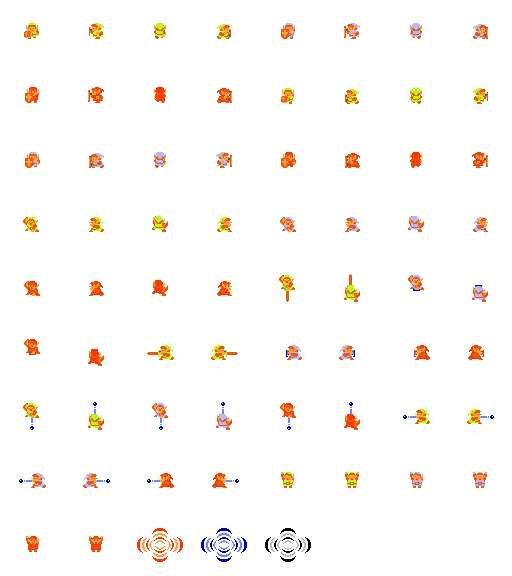
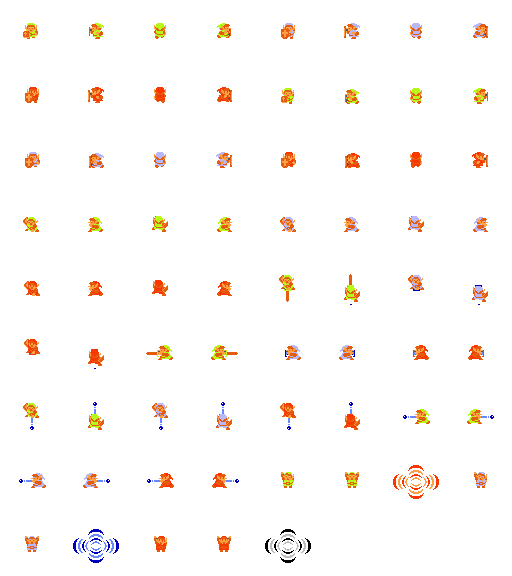
Much, much better ordering of frames

diff --git a/main.c b/main.c
@@ -39,6 +39,8 @@ typedef struct
     int dw;
 } Args;
 
+static int CompareFramesRowThresh;
+
 static void PrintUsage(const char* app)
 {
     fprintf(stderr, "Usage: %s path/to/input/image path/to/output/image OPTIONS\n", app);
@@ -48,6 +50,7 @@ static void PrintUsage(const char* app)
     fprintf(stderr, "\t-e EDGE_DISTANCE_THRESHOLD\n\t\tThe edge distance threshold is used to determine whether disconnected pixels still belong to a frame.\n\t\tIf the distance from these pixels to the nearest edge is less than or equal to the\n\t\tthreshold, then they're incorporated.\n");
     fprintf(stderr, "\t--pot\n\t\tThis is optional. It makes the app generate a power of two image.\n");
     fprintf(stderr, "\t--dest-width DESIRED_OUTPUT_IMAGE_WIDTH\n\t\tThis is optional and mutually exclusive with the --pot option.\n\t\tThis is the width you want the output image to be.\n\t\tThe height will be determined from the number of frames detected.\n");
+	fprintf(stderr, "\t--row-thresh DESIRED_ROW_THRESHOLD\n\t\tThis is equal to half the frame height by default.\n\t\tIt is used to order the resulting frames. If two frames are within the threshold on the y axis\n\t\tthen they are ordered from left-to-right next to each other in the final image.\n");
 }
 
 static bool ParseArgs(Args* args, int argc, char** argv)
@@ -84,7 +87,10 @@ static bool ParseArgs(Args* args, int argc, char** argv)
             i += 1;
         } else if(strcmp(argv[i], "--pot") == 0) {
             args->pot = true;
-    	} else {
+		} else if (strcmp(argv[i], "--row-thresh") == 0) {
+			CompareFramesRowThresh = atoi(argv[i + 1]);
+			i += 1;
+		} else {
     		if(!args->inputImage) args->inputImage = argv[i];
     		else if (!args->outputImage) args->outputImage = argv[i];
     		else {
@@ -134,6 +140,10 @@ static bool ParseArgs(Args* args, int argc, char** argv)
     	return false;
     }
 
+	if (CompareFramesRowThresh == 0) {
+		CompareFramesRowThresh = args->fh / 2;
+	}
+
     return true;
 }
 
@@ -143,6 +153,19 @@ static bool PixelEqual(const Pixel* a, const Pixel* b)
            a->g == b->g &&
            a->b == b->b &&
            a->a == b->a;
+}
+
+static int CompareFrames(const void* va, const void* vb)
+{
+    const Rect* a = va;
+    const Rect* b = vb;
+
+    if(abs(a->y - b->y) < CompareFramesRowThresh) {
+        // They're in the same row, roughly
+        return a->x - b->x;
+    } 
+
+    return a->y - b->y;
 }
 
 int main(int argc, char** argv)
@@ -257,6 +280,8 @@ int main(int argc, char** argv)
 
     free(checked);
  
+    qsort(frames, numFrames, sizeof(Rect), CompareFrames);
+
     int dw;
     int dh;
 

diff --git a/README.md b/README.md
@@ -48,7 +48,7 @@ into this
 by doing
 
 ```
-sprite_extractor example_images/enemies_zelda_src.png example_images/enemies_zelda.png --frame-width 32 --frame-height 32 -e 5 --dest-width 512
+sprite_extractor example_images/enemies_zelda_src.png example_images/enemies_zelda.png --frame-width 32 --frame-height 32 -e 5 --dest-width 512 --row-thresh 4
 ```
 
 And this
@@ -62,7 +62,7 @@ into this
 by doing
 
 ```
-sprite_extractor example_images/player_zelda_src.png example_images/player_zelda.png --frame-width 64 --frame-height 64 -e 2 --dest-width 512
+sprite_extractor example_images/player_zelda_src.png example_images/player_zelda.png --frame-width 64 --frame-height 64 -e 2 --dest-width 512 --row-thresh 4
 ```
 
 Notice how the "wave arcs" are placed into single frames despite them being separated from each other by a certain amount.
